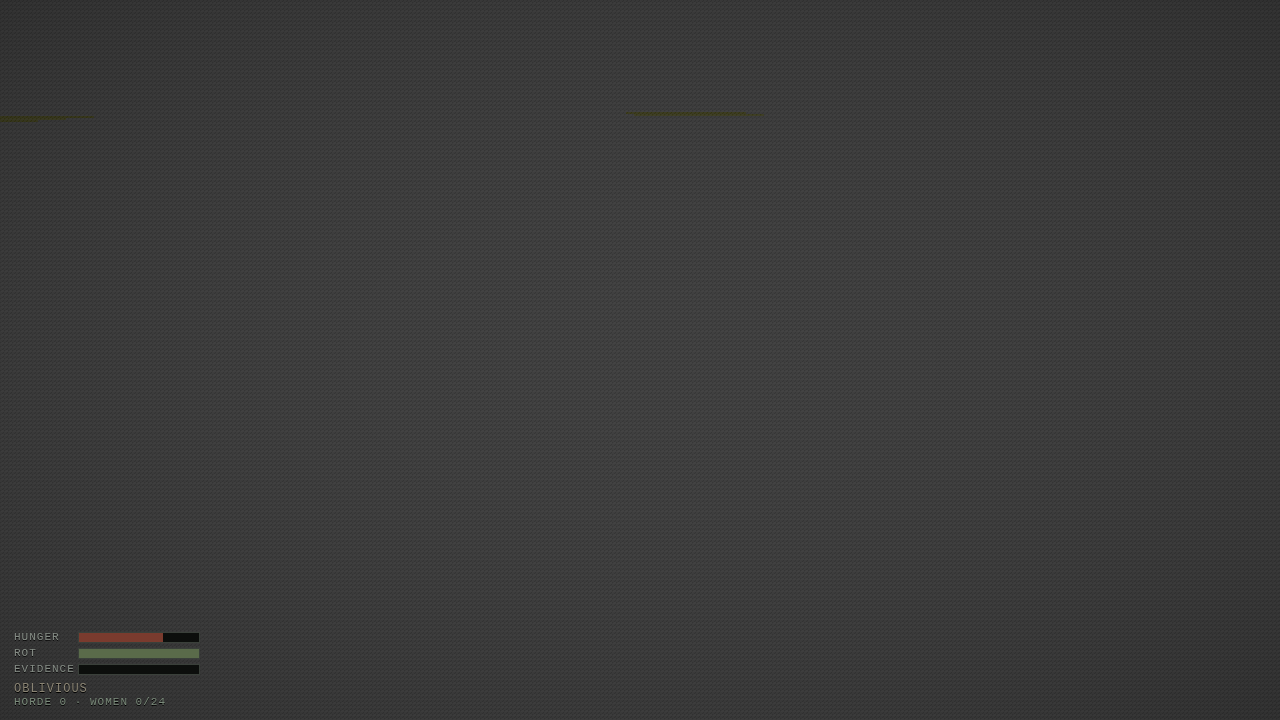
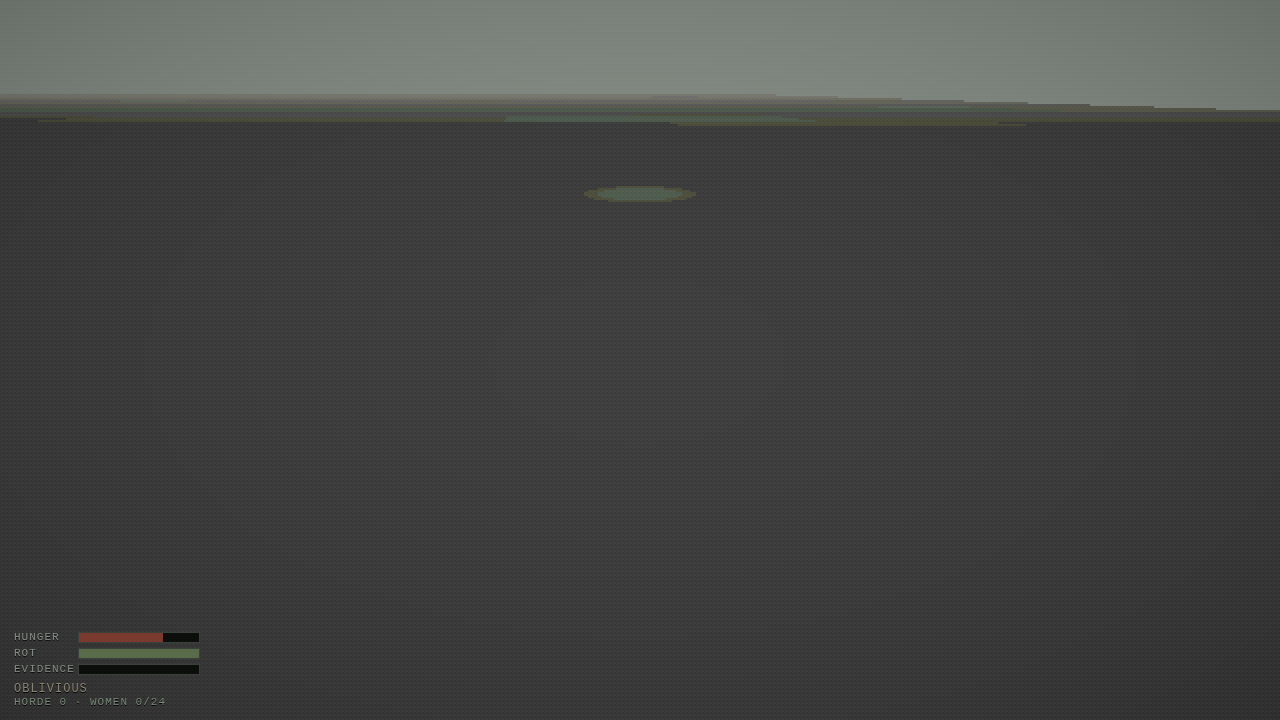
Fog IS the draw distance: gray-green murk 0x2d2d2a @ 0.030 (R3 gap), graveyard key light (R5 gap)

Changed region(s): [[0.0, 0.0, 1.0, 0.1833], [0.4688, 0.2444, 0.5312, 0.275]]

diff --git a/src/game/dismember.js b/src/game/dismember.js
@@ -1,0 +1,99 @@
+// Dismemberment: on kill completion, 1-2 limbs are torn off the victim,
+// flung 1-3m in an arc, and left as persistent props for the whole run.
+// Clones share geometry/material with the victim's limb (cheap); the
+// original limb is stumped at the joint (scale 0.01). Pool-capped at
+// MAX_LIMBS — oldest landed prop is recycled when the cap is hit.
+// No per-frame allocations: ballistic sim uses module-scope temps.
+import * as THREE from 'three/webgpu';
+
+const MAX_LIMBS = 40;
+const GRAV = 9.8;
+const GROUND_Y = 0.1; // rests half-thickness off the dirt
+
+const _pos = new THREE.Vector3();
+const _quat = new THREE.Quaternion();
+const _scl = new THREE.Vector3();
+
+export function createDismember(scene, gore) {
+  const flying = []; // {g, vx, vy, vz, sx, sz} — in flight only
+  const props = [];  // landed, persistent (ring for the cap)
+
+  function severOne(pivot, dirX, dirZ) {
+    pivot.updateWorldMatrix(true, false);
+    pivot.getWorldPosition(_pos);
+    pivot.getWorldQuaternion(_quat);
+    pivot.getWorldScale(_scl);
+
+    const clone = pivot.clone(true); // meshes cloned, geo/mat shared
+    clone.position.copy(_pos);
+    clone.quaternion.copy(_quat);
+    clone.scale.copy(_scl);
+    scene.add(clone);
+
+    // stump the original at the joint
+    pivot.scale.setScalar(0.01);
+    pivot.userData.severed = true;
+
+    // ballistic throw: land 1-3m out along dir (jittered), arced
+    const dist = 1 + Math.random() * 2;
+    const ja = (Math.random() - 0.5) * 1.1;
+    const c = Math.cos(ja), s = Math.sin(ja);
+    const tx = _pos.x + (dirX * c - dirZ * s) * dist;
+    const tz = _pos.z + (dirX * s + dirZ * c) * dist;
+    const t = 0.45 + Math.random() * 0.3; // flight time
+    flying.push({
+      g: clone,
+      vx: (tx - _pos.x) / t,
+      vy: (GROUND_Y - _pos.y) / t + 0.5 * GRAV * t,
+      vz: (tz - _pos.z) / t,
+      sx: (Math.random() - 0.5) * 10, // tumble spin rad/s
+      sz: (Math.random() - 0.5) * 10,
+    });
+  }
+
+  // tear 1-2 limbs off a freshly dead victim; returns how many severed
+  function sever(victimGroup, dirX = 0, dirZ = 1) {
+    const parts = victimGroup.userData.parts;
+    if (!parts) return 0;
+    const limbs = [parts.armL, parts.armR, parts.legL, parts.legR]
+      .filter((l) => l && !l.userData.severed);
+    if (!limbs.length) return 0;
+    const n = Math.min(limbs.length, 1 + ((Math.random() * 2) | 0));
+    for (let i = 0; i < n; i++) {
+      const idx = (Math.random() * limbs.length) | 0;
+      severOne(limbs.splice(idx, 1)[0], dirX, dirZ);
+    }
+    return n;
+  }
+
+  function update(dt) {
+    for (let i = flying.length - 1; i >= 0; i--) {
+      const f = flying[i];
+      f.vy -= GRAV * dt;
+      const g = f.g;
+      g.position.x += f.vx * dt;
+      g.position.y += f.vy * dt;
+      g.position.z += f.vz * dt;
+      g.rotation.x += f.sx * dt;
+      g.rotation.z += f.sz * dt;
+      if (g.position.y <= GROUND_Y) {
+        // land: lie flat with random yaw, slight blood decal beneath
+        g.position.y = GROUND_Y;
+        g.rotation.set(
+          -Math.PI / 2 + (Math.random() - 0.5) * 0.5,
+          Math.random() * Math.PI * 2, 0, 'YXZ'
+        );
+        gore.addDecal(
+          g.position.x + (Math.random() - 0.5) * 0.2,
+          g.position.z + (Math.random() - 0.5) * 0.2,
+          0.3 + Math.random() * 0.25, 1.4, Math.random() * Math.PI
+        );
+        flying.splice(i, 1);
+        props.push(g);
+        if (props.length > MAX_LIMBS) scene.remove(props.shift());
+      }
+    }
+  }
+
+  return { sever, update, get count() { return props.length + flying.length; } };
+}

diff --git a/src/game/gore.js b/src/game/gore.js
@@ -44,6 +44,58 @@ export function createGore(scene) {
     }
   }
 
+  // --- wall spray: vertical decals on a building face (same capped pool) ---
+  const _we = new THREE.Euler();
+  const _wq = new THREE.Quaternion();
+  const _wp = new THREE.Vector3();
+
+  // thin dark decal offset 0.03 off a wall, facing along (nx,nz)
+  function addWallDecal(x, y, z, nx, nz, w, h) {
+    if (decalCount >= MAX_DECALS) return;
+    _we.set(0, Math.atan2(nx, nz), 0); // plane +z -> outward normal
+    _wq.setFromEuler(_we);
+    _wp.set(x, y, z);
+    ds.set(w, h, 1);
+    dm.compose(_wp, _wq, ds);
+    decals.setMatrixAt(decalCount, dm);
+    decals.count = ++decalCount;
+    decals.instanceMatrix.needsUpdate = true;
+  }
+
+  // kill near a building: 3-6 small dark decals fanned vertically down the
+  // nearest face, heights 0.5-2m. Scalar-only search — no allocations.
+  function wallSpray(x, z, obstacles) {
+    if (!obstacles) return;
+    let best = null, bestD2 = 4; // within 2m
+    for (let i = 0; i < obstacles.length; i++) {
+      const o = obstacles[i];
+      const cx = Math.max(o.minX, Math.min(x, o.maxX));
+      const cz = Math.max(o.minZ, Math.min(z, o.maxZ));
+      const dx = x - cx, dz = z - cz;
+      const d2 = dx * dx + dz * dz;
+      if (d2 < bestD2) { bestD2 = d2; best = o; }
+    }
+    if (!best) return;
+    // face whose outward normal points back at the kill
+    const dMinX = Math.abs(x - best.minX), dMaxX = Math.abs(x - best.maxX);
+    const dMinZ = Math.abs(z - best.minZ), dMaxZ = Math.abs(z - best.maxZ);
+    const m = Math.min(dMinX, dMaxX, dMinZ, dMaxZ);
+    let nx = 0, nz = 0, wx = 0, wz = 0, lo = 0, hi = 0, alongZ = false;
+    if (m === dMinX) { nx = -1; wx = best.minX - 0.03; lo = best.minZ; hi = best.maxZ; alongZ = true; }
+    else if (m === dMaxX) { nx = 1; wx = best.maxX + 0.03; lo = best.minZ; hi = best.maxZ; alongZ = true; }
+    else if (m === dMinZ) { nz = -1; wz = best.minZ - 0.03; lo = best.minX; hi = best.maxX; }
+    else { nz = 1; wz = best.maxZ + 0.03; lo = best.minX; hi = best.maxX; }
+    const n = 3 + ((Math.random() * 4) | 0); // 3-6
+    for (let i = 0; i < n; i++) {
+      const t = Math.max(lo + 0.2, Math.min(hi - 0.2, (alongZ ? z : x) + (Math.random() - 0.5) * 1.6));
+      const y = 0.5 + Math.random() * 1.5;
+      const w = 0.1 + Math.random() * 0.16;
+      const h = w * (1.6 + Math.random() * 1.6); // runs downward
+      if (alongZ) addWallDecal(wx, y, t, nx, nz, w, h);
+      else addWallDecal(t, y, wz, nx, nz, w, h);
+    }
+  }
+
   // --- spray particles: instanced quads, CPU-simmed (cheap at this count) ---
   const pGeo = new THREE.PlaneGeometry(0.09, 0.09);
   const pMat = new THREE.MeshBasicNodeMaterial({ color: 0x4a0a08, transparent: true, opacity: 0.95, side: THREE.DoubleSide });
@@ -108,5 +160,5 @@ export function createGore(scene) {
     }
   }
 
-  return { addDecal, addTrail, burst, update, stainCharacter, get decalCount() { return decalCount; } };
+  return { addDecal, addTrail, addWallDecal, wallSpray, burst, update, stainCharacter, get decalCount() { return decalCount; } };
 }

diff --git a/src/game/interactions.js b/src/game/interactions.js
@@ -13,9 +13,12 @@ import { applyTurn, setDeadPose } from '../characters/factory.js';
 
 const FACE_DOT = 0.3;             // "in facing direction" preference threshold
 const CHEST_Y = 1.2;              // burst origin height on the victim
-const SECOND_BURST_AT = 0.4;      // fraction of kill hold for the second burst
+const BURST_15_AT = 0.15;         // fraction of kill hold: second spurt
+const SECOND_BURST_AT = 0.4;      // fraction of kill hold for the third burst
+const BURST_70_AT = 0.7;          // fraction of kill hold: late arterial emptying
+const DRIP_EVERY = 0.4;           // slow blood drip pooling under the victim
 
-export function createInteractions({ player, residents, takeDirector, gore, gameState, audio = null }) {
+export function createInteractions({ player, residents, takeDirector, gore, gameState, audio = null, town = null, dismember = null }) {
   const range2 = CFG.player.interactRange * CFG.player.interactRange;
   const sightRange2 = CFG.npc.sightRange * CFG.npc.sightRange;
   // rough witness cone from the NPC field of view (dot threshold, no raycast)
@@ -59,6 +62,14 @@ export function createInteractions({ player, residents, takeDirector, gore, game
     gore.burst(tp.x, tp.y + CHEST_Y, tp.z, dx / d, dz / d, n, power);
   }
 
+  // initial arterial burst: biased along the player's facing axis so the fan
+  // hoses back at/past the viewer — not a random direction
+  function burstChestAlongFacing(target, n, power) {
+    const tp = target.group.position;
+    const fx = -Math.sin(player.rotation.y), fz = -Math.cos(player.rotation.y);
+    gore.burst(tp.x, tp.y + CHEST_Y, tp.z, fx, fz, n, power);
+  }
+
   // any other living resident with the kill inside their rough sight cone?
   function wasWitnessed(tp) {
     const list = residents.list;
@@ -90,7 +101,7 @@ export function createInteractions({ player, residents, takeDirector, gore, game
   // --- kill: feed, gore, evidence -------------------------------------------
   function startKill(target) {
     target.state = 'taken';
-    kill = { target, phase: 'pre', holdT: 0, burst40: false };
+    kill = { target, phase: 'pre', holdT: 0, burst15: false, burst40: false, burst70: false, dripT: 0 };
     audio?.kill(); // impact+wet+breath+tail layers, fired at cut
     takeDirector.start(target, 'kill', () => {
       finishKill(target);

diff --git a/src/config.js b/src/config.js
@@ -49,8 +49,8 @@ export const CFG = {
   render: {
     ps1ResolutionScale: 0.5,   // low internal resolution, upscaled
     snapVertex: 1 / 220,       // vertex jitter quantization
-    fogColor: 0x0a0b0c,
-    fogDensity: 0.022,
+    fogColor: 0x2d2d2a,           // gray-green murk — fog IS the draw distance
+    fogDensity: 0.030,
     gradeTint: [2.7, 2.85, 2.55],  // desaturated, faint sick green
     exposure: 3.4,                   // heavy lift — PS1 horror is dark but READABLE
     ditherAmount: 1.0,

diff --git a/src/main.js b/src/main.js
@@ -65,6 +65,11 @@ if (startOverride === 'street') {
 }
 scene.add(player);
 
+// graveyard key light: pale cold glow over her open grave — the start must read
+const graveLight = new THREE.PointLight(0x9aa89a, 3.2, 14, 1.4);
+graveLight.position.set(town.playerSpawn.x, 3.4, town.playerSpawn.z);
+scene.add(graveLight);
+
 // systems
 const gameState = createGameState();
 const gore = createGore(scene);
